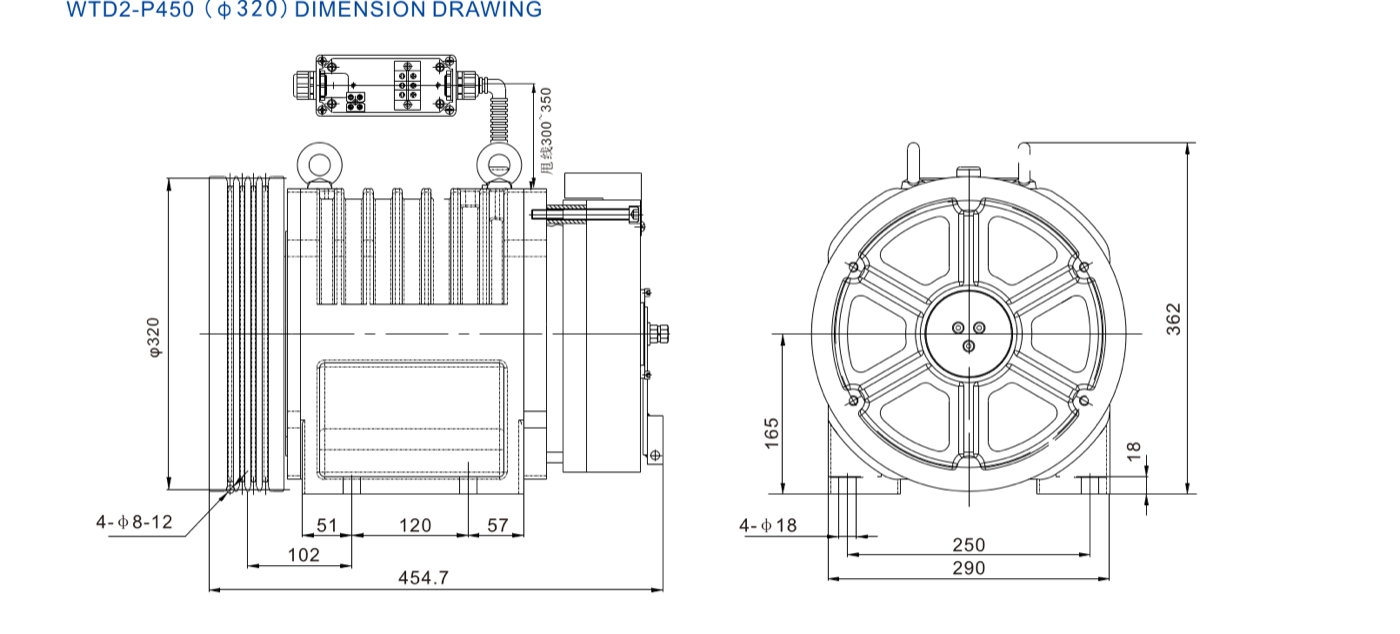
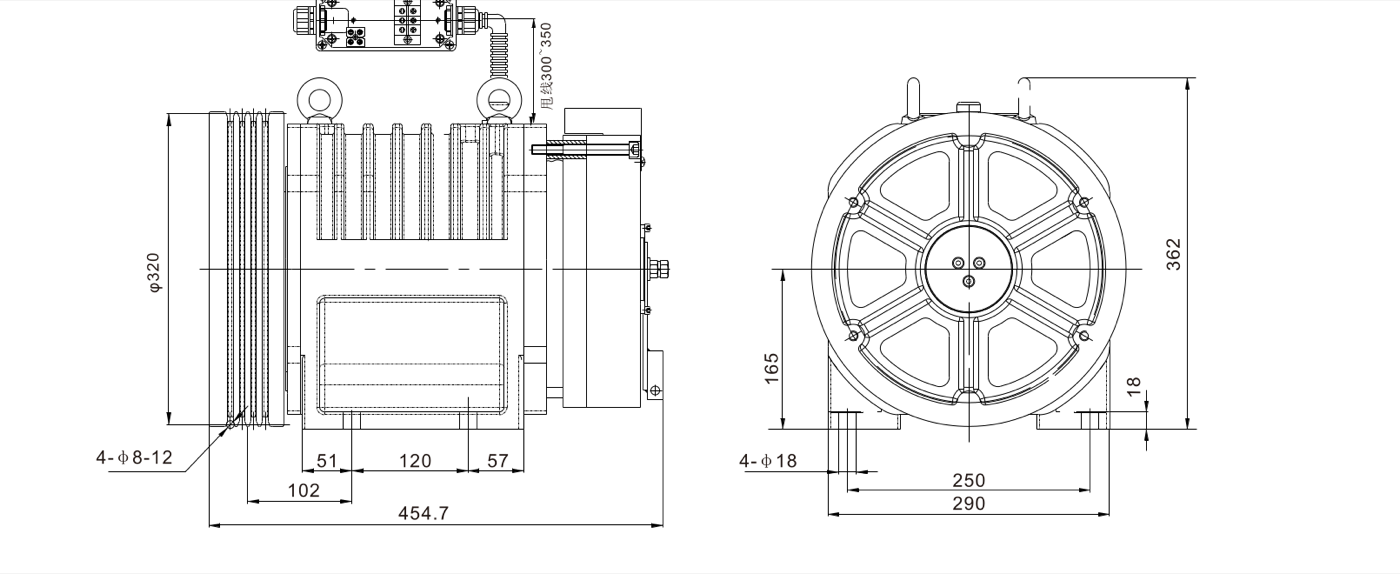
Match drawing heights and remove P450 family label from P400 card
- Re-crop the WTD2-P400-100D drawing to skip the catalogue family
  title ("WTD2-P450 (φ320) DIMENSION DRAWING"), since this card is
  about the P400-100D specifically — the title was leftover branding
  from the parent catalogue page.
- Fix .model-drawing to a 300px (220px on mobile) height with
  object-fit: contain on the img, so both drawings render at the
  same height and the card layout looks balanced across models.

diff --git a/index.html b/index.html
@@ -764,12 +764,14 @@
     display: flex;
     align-items: center;
     justify-content: center;
-    min-height: 220px;
+    height: 300px;
   }
   .model-drawing img {
-    width: 100%;
-    max-width: 540px;
+    max-width: 100%;
+    max-height: 100%;
+    width: auto;
     height: auto;
+    object-fit: contain;
     display: block;
   }
   .model-specs {
@@ -804,7 +806,7 @@
   }
   @media (max-width: 640px) {
     .model-card-head { padding: 20px; }
-    .model-drawing { padding: 20px; min-height: 180px; }
+    .model-drawing { padding: 20px; height: 220px; }
     .model-specs { padding: 20px; grid-template-columns: 1fr; gap: 20px; }
   }
 
